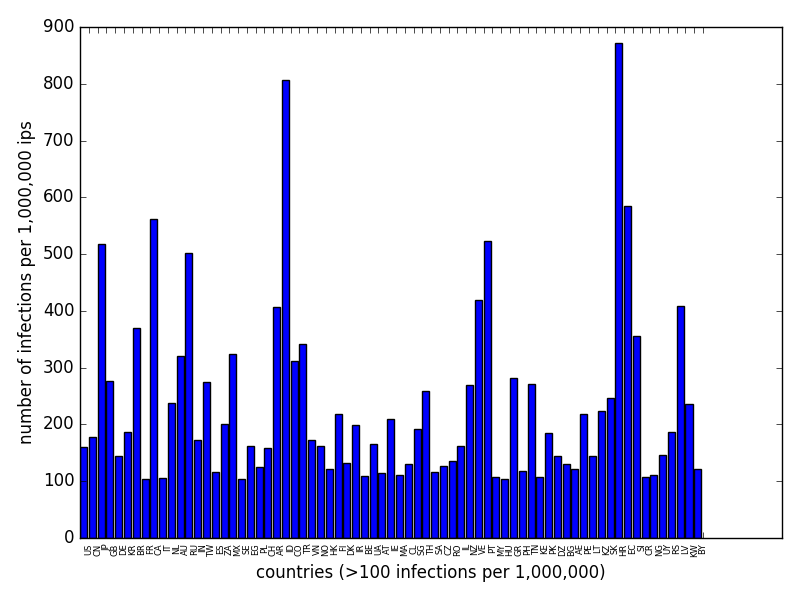
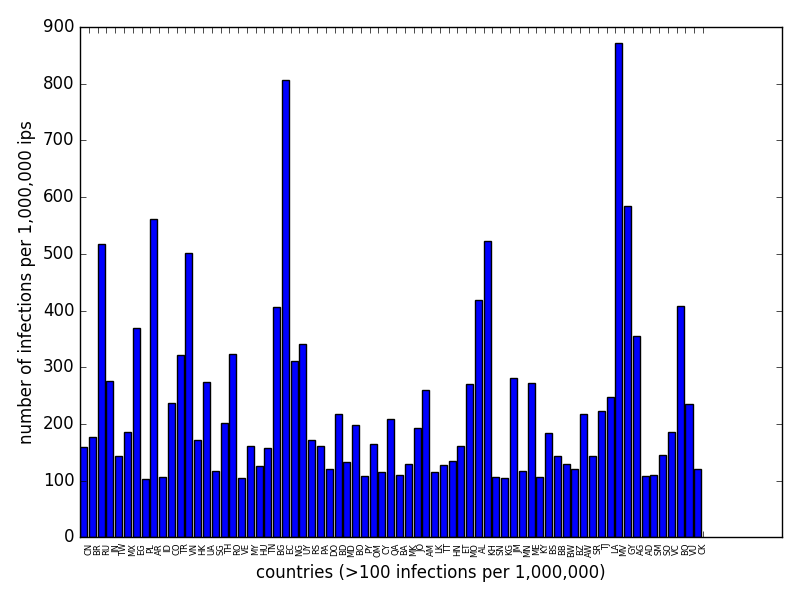
fix image

Changed region(s): [[0.0938, 0.87, 0.9688, 0.93], [0.0625, 0.6, 0.0938, 0.63], [0.0625, 0.21, 0.0938, 0.24]]

diff --git a/metrics_graphs.py b/metrics_graphs.py
@@ -83,7 +83,7 @@ for c,n in zip(ips_per_country['country'],ips_per_country['ips']):
         perCountryLabels.append(c)
 
 plt.bar(range(0,len(perCountryY)), perCountryY)
-plt.xticks(range(1,len(perCountryY)+1), list(ips_per_country['country']), rotation=90, fontsize=6)
+plt.xticks(range(1,len(perCountryY)+1), perCountryLabels, rotation=90, fontsize=6)
 plt.xlabel("countries (>100 infections per 1,000,000)")
 plt.ylabel("number of infections per 1,000,000 ips")
 plt.savefig('images/metric_per_country.png')
